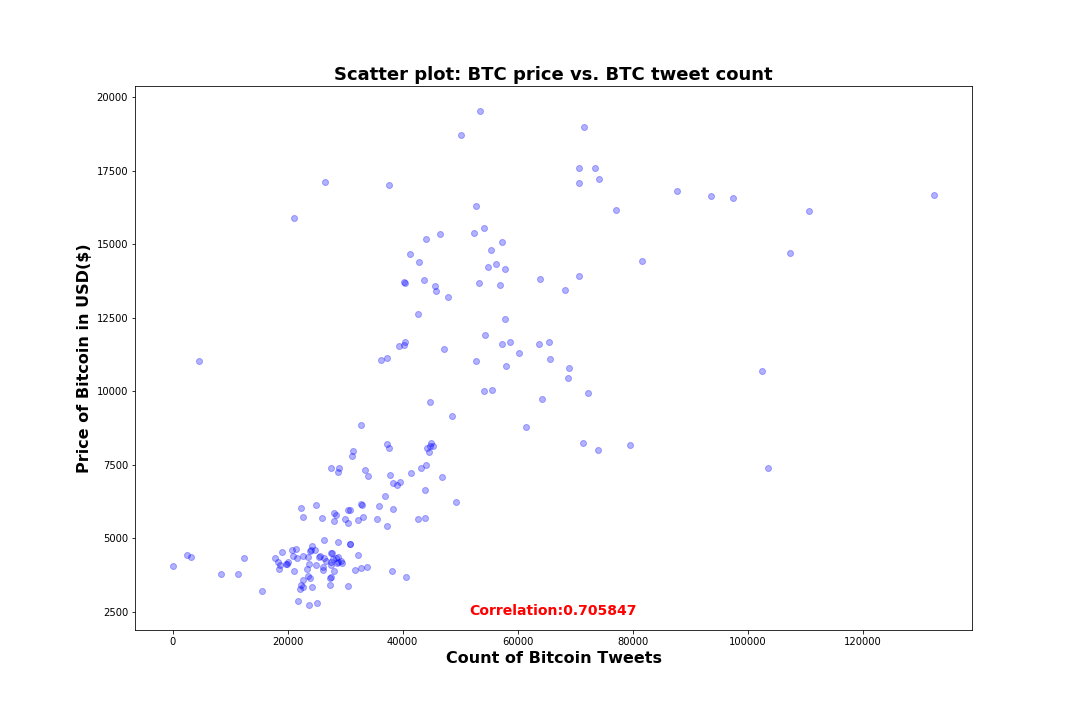
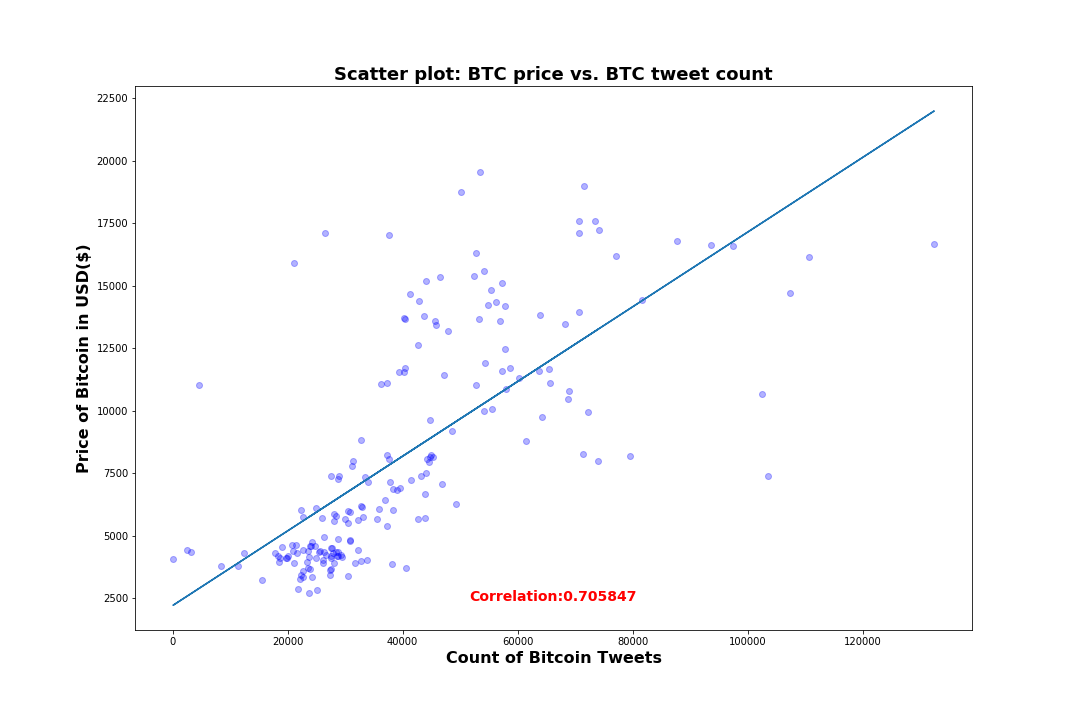
added line of best fit to scatter plot. Also made some more rudimentry edits to EDA files and also to README. Main work is on README at this point

diff --git a/src/graphing_func.py b/src/graphing_func.py
@@ -1,6 +1,7 @@
 from parsing_class import *
 import matplotlib.pyplot as plt
 from pandas.plotting import scatter_matrix
+from numpy.polynomial.polynomial import polyfit
 
 def tweet_matrix_df(df):
 
@@ -67,6 +68,8 @@ def scatter_plot(df,xcolname,ycolname,color,title,xlabel,ylabel,corr,savefig):
     plt.xlabel(xlabel,fontsize = 16,weight='600')
     plt.ylabel(ylabel,fontsize = 16,weight='600')
     plt.text(x, y, f'Correlation:{corr}',ha='center', fontsize=14,weight='bold',c='red')
+    b, m = polyfit(df[xcolname], df[ycolname], 1)
+    plt.plot(df[xcolname], b + m * df[xcolname], '-')
     plt.savefig(savefig)
     plt.show()
 
